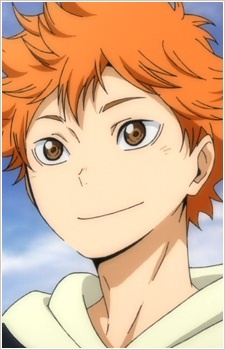
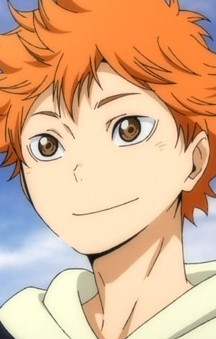
commit

diff --git a/lab20/style.css b/lab20/style.css
@@ -29,7 +29,7 @@ body {
     transition: 0.3s;
 }
 .block__img:hover{
-    transform: translateY(-40px);
+    transform: translateY(-40px) scale(1.1);
     box-shadow: 0 0 20px rgb(75, 75, 75);
 }
 
